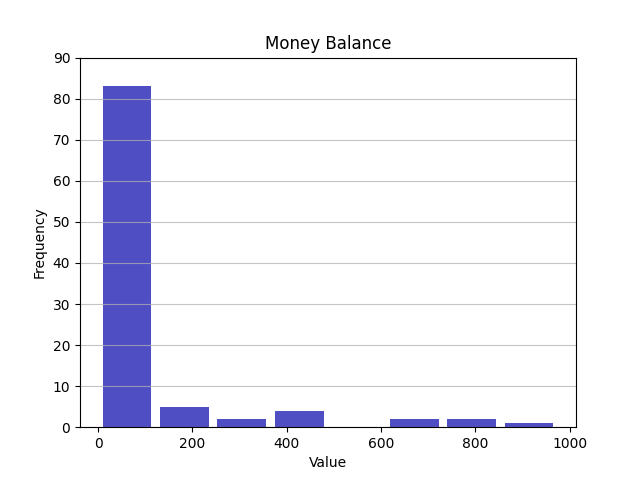
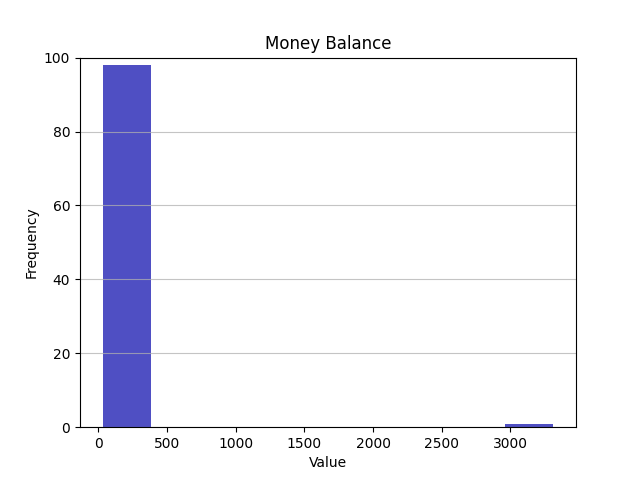
update

diff --git a/src/pynlp/rnnipynb/kalifunc.py b/src/pynlp/rnnipynb/kalifunc.py
@@ -11,42 +11,52 @@ import numpy as np
 def kelly(b, p):
     return (p * (b + 1) - 1) / b
 
-def playAndSave(round,b, p, n, pre_money):
+def playAndSave(rank,b, p, n, pre_money):
     # b 赔率，p 获胜概率 n 下注次数
     # 赔率计算方式：赚的钱(包含本金) / 亏损的钱
     # pre_money 本金
     # result 投注比例
     # r 每次投入本金比例    
-    bidRate = kelly(b, p)
+    bidRate = kelly(b, p) +0.1
+    winAlotRate = 30
+    winAlot = pre_money * winAlotRate
     count = 0
-    if round == 1:
+    if rank == 1:
         print("本金%.4f\n赔率为%.4f\n胜率为%.4f\n投注比例 %.4f" % (pre_money, b, p, bidRate))
 
     money = pre_money
-    
+    bidMoney =0
     x = [1]
     y = [pre_money]
     for i in range(2, n + 1):
         te = random.random()
-        bidMoney  = pre_money * bidRate;
+        bidMoney  = round ( money * bidRate *1.0)
+        #print (bidMoney)
+
+        if bidMoney == 0:
+            bidMoney = money
+
         if te <= p:
             money = money + bidMoney
         else:
             money = money - bidMoney
-            x.append(i)
-            y.append(money)
+
+        x.append(i)
+        y.append(money)
         count = count + 1
         if money <=0 :
+            break
+        if money > winAlot:
             break
 
         #if n <= 2000:
         #    print("%d #" % i, "随机 %.2f" % te, "错" if te > 0.5 else "对", "剩：%.2f" % money , "赌:%.2f" % bidMoney)
-    #print("第%d轮, 运行%d次后，最后剩余%.2f" % (round, count, money))    
-    filename = "Pic_"+ str(round)
+    #print("第%d轮, 运行%d次后，最后剩余%.2f" % (rank, count, money))    
+    filename = "P"+ str(10000+rank)
     #print(filename)
     plt.plot(x, y)
     #plt.show()
-    plt.savefig(filename)
+    #plt.savefig(filename)
 
     return count, money
 
@@ -66,17 +76,17 @@ def drawHistGram(title ='fig1', data=[0], color='#0504aa'):
 
 if __name__ == '__main__':
     x = []
-    eachRoundCount = []
-    eachRoundMoney = []
+    eachrankCount = []
+    eachrankMoney = []
     totalPlayer = 100
     for r in range(1, totalPlayer):
-        count, money = playAndSave (round =r, b = 2.0, p=0.5, n=250, pre_money=100)
+        count, money = playAndSave (rank =r, b = 2.0, p=0.5, n=250, pre_money=100)
         print("玩家%-2d, 玩 %-3d轮后，钱包还剩 %5.0f" % (r, count, money))
         x.append(r)
-        eachRoundCount.append(count)
-        eachRoundMoney.append(money)
+        eachrankCount.append(count)
+        eachrankMoney.append(money)
 
-    payToPlayer = sum(eachRoundMoney)
+    payToPlayer = sum(eachrankMoney)
     playerPaid =  totalPlayer * 100
     winorloss  = playerPaid - payToPlayer
 
@@ -84,13 +94,13 @@ if __name__ == '__main__':
     plt.savefig("f1.png")
     plt.figure()
     
-    #eachRoundMoney = [0.0, 0.0, 0.0, 0.0, 0.0, 0.0, 0.0, 0.0, 0.0, 0.0, 0.0, 0.0, 575.0, 525.0, 0.0, 0.0, 0.0, 0.0, 0.0, 525.0, 0.0, 0.0, 0.0, 0.0, 0.0, 0.0, 325.0, 0.0, 0.0]
-    print(eachRoundCount)
-    print(eachRoundMoney)
-    drawHistGram('Money Balance', eachRoundMoney)
+    #eachrankMoney = [0.0, 0.0, 0.0, 0.0, 0.0, 0.0, 0.0, 0.0, 0.0, 0.0, 0.0, 0.0, 575.0, 525.0, 0.0, 0.0, 0.0, 0.0, 0.0, 525.0, 0.0, 0.0, 0.0, 0.0, 0.0, 0.0, 325.0, 0.0, 0.0]
+    print(eachrankCount)
+    print(eachrankMoney)
+    drawHistGram('Money Balance', eachrankMoney)
     plt.savefig("f2.png")
     plt.figure()
-    drawHistGram('Play Rounds', eachRoundCount)
+    drawHistGram('Play ranks', eachrankCount)
     plt.savefig("f3.png")
     plt.show()
     
